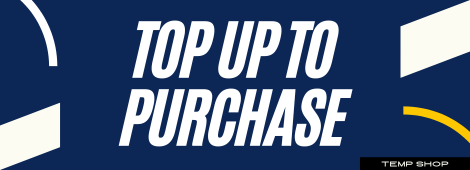
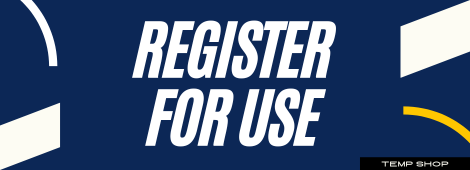
Update about function Register and color

Changed region(s): [[0.2383, 0.5, 0.7745, 0.8824], [0.2681, 0.1176, 0.7447, 0.4706], [0.5957, 0.5, 0.6255, 0.5294]]

diff --git a/styles.css b/styles.css
@@ -19,7 +19,7 @@ header {
     width: 100%;
     justify-content: center;
     position: relative;
-    background-color: #042786;  /* เพิ่มสีพื้นหลัง (สีฟ้าเข้ม) */
+    background-color: #0c2756;  /* เพิ่มสีพื้นหลัง (สีฟ้าเข้ม) */
     color: #ffffff;  /* เพิ่มสีข้อความ (สีขาว) */
     padding: 20px 30px;
     
